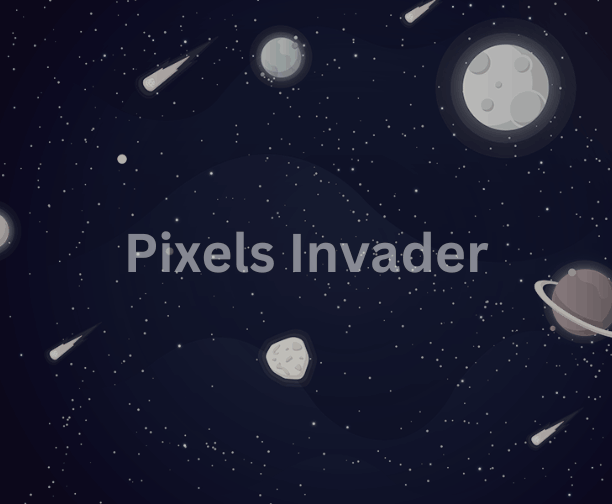
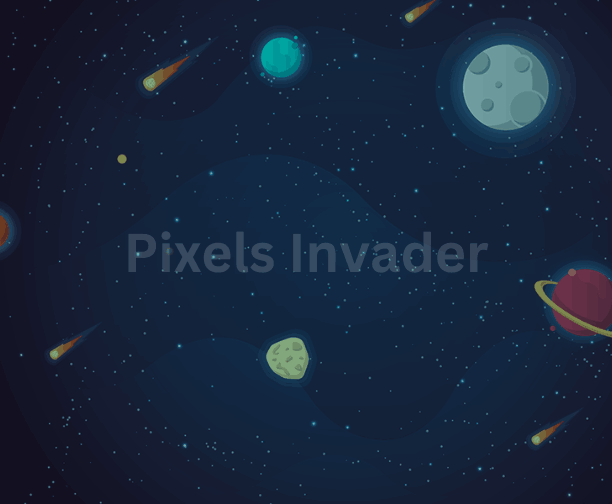
added multiple background option

diff --git a/src/components/game/space-invader.tsx b/src/components/game/space-invader.tsx
@@ -49,6 +49,7 @@ export const SpaceInvader: React.FC<SpaceInvadersProps> = ({ gameConst, setGameC
   const [enemyBullets, setEnemyBullets] = useState<{ x: number; y: number; width: number; height: number; isFired: boolean, initialX: number }[]>([]);
   const [enemyCanFire, setEnemyCanFire] = useState(true);
   const [debris, setDebris] = useState<Debris[]>([]);
+  const [background, setBackground] = useState('bg-game')
   const [playerPosition, setPlayerPosition] = useState<ElementPosition>({
     x: START_POSITION.x,
     y: START_POSITION.y,
@@ -231,11 +232,11 @@ export const SpaceInvader: React.FC<SpaceInvadersProps> = ({ gameConst, setGameC
       movePlayer();
       moveEnemiesAndFireBullets(ENEMY_BULLET_HEIGHT, ENEMY_BULLET_WIDTH, ENEMY_FIRE_INTERVAL, enemyCanFire, setEnemyCanFire, setPlayerBulletPosition, playerBulletsPosition, setPlayerPosition, setEnemies, playerPosition, setEnemyBullets, gameConst, gameLogic, setGameLogic, collide);
       movePlayerBullets(setPlayerBulletPosition, enemies, collide);
-      // moveEnemyBullets(setPlayerPosition, playerPosition, setEnemyBullets, gameConst, gameLogic, setGameLogic, collide);
+      moveEnemyBullets(setPlayerPosition, playerPosition, setEnemyBullets, gameConst, gameLogic, setGameLogic, collide);
 
       if (gameConst.Level > 2) {
         if (Math.random() < 1) {
-          // setDebris((currentDebris) => moveDebris(currentDebris));
+          setDebris((currentDebris) => moveDebris(currentDebris));
         }
       }
     }
@@ -331,6 +332,14 @@ export const SpaceInvader: React.FC<SpaceInvadersProps> = ({ gameConst, setGameC
               {gameConst.Health === 4 || gameConst.fireSpeed === 100 || gameConst.timer === 35 || gameConst.enemyFire === 0.005 ? null : <p className='text-slate-400 font-medium ml-2'>Buy some Powerups in Market</p>}
             </div>
           </div>
+          <div className='text-xl font-medium text-white my-4 flex items-center justify-center'>
+              <p className='mr-1'>Select Background:</p>
+              <div className='flex flex-row items-center justify-center'>
+                <img src='/background.png' onClick={() => setBackground('bg-game')} alt='background' width={60} height={60} className={`mx-1 ${background === 'bg-game'? 'border-4 border-white': ''}`} />
+                <img src='/background1.png' onClick={() => setBackground('bg-game1')} alt='background1' width={60} height={60} className={`mx-1 ${background === 'bg-game1'? 'border-4 border-white': ''}`} />
+                <img src='/background2.png' onClick={() => setBackground('bg-game2')} alt='background2' width={60} height={60} className={`mx-1 ${background === 'bg-game2'? 'border-4 border-white': ''}`} />
+              </div>
+            </div>
           <button onClick={handleStart} className="font-bold mt-3 text-2xl bg-green-500 text-white px-6 py-3 rounded-full hover:bg-green-600 transition duration-300">Start Again</button>
         </div> : !gameLogic.gameover && !gameConst.start ?
           <div className="w-[612px] h-[504px] mt-2 z-30 text-white text-center bg-black rounded">
@@ -346,11 +355,19 @@ export const SpaceInvader: React.FC<SpaceInvadersProps> = ({ gameConst, setGameC
                 {gameConst.Health === 4 || gameConst.fireSpeed === 100 || gameConst.timer === 35 || gameConst.enemyFire === 0.005 ? null : <p className='text-slate-400 font-medium ml-2'>Buy some Powerups in Market</p>}
               </div>
             </div>
+            <div className='text-xl font-medium text-white my-4 flex items-center justify-center'>
+              <p className='mr-1'>Select Background:</p>
+              <div className='flex flex-row items-center justify-center'>
+                <img src='/background.png' onClick={() => setBackground('bg-game')} alt='background' width={60} height={60} className={`mx-1 ${background === 'bg-game'? 'border-4 border-white': ''}`} />
+                <img src='/background1.png' onClick={() => setBackground('bg-game1')} alt='background1' width={60} height={60} className={`mx-1 ${background === 'bg-game1'? 'border-4 border-white': ''}`} />
+                <img src='/background2.png' onClick={() => setBackground('bg-game2')} alt='background2' width={60} height={60} className={`mx-1 ${background === 'bg-game2'? 'border-4 border-white': ''}`} />
+              </div>
+            </div>
             <p className='font-medium mt-2 mb-4'></p>
             <button onClick={handleFirstStart} className="font-bold mt-3 text-2xl bg-green-500 text-white px-6 py-3 rounded-full hover:bg-green-600 transition duration-300">Start</button>
           </div> :
           <div
-            className="w-[612px] h-[504px] mt-2 z-30 relative bg-game border-none rounded"
+            className={`w-[612px] h-[504px] mt-2 z-30 relative ${background} border-none rounded`}
             onKeyDown={(e) => pressed(e)}
             role="button"
             tabIndex={0}

diff --git a/tailwind.config.ts b/tailwind.config.ts
@@ -14,7 +14,9 @@ const config: Config = {
         'gradient-radial': 'radial-gradient(var(--tw-gradient-stops))',
         'gradient-conic':
           'conic-gradient(from 180deg at 50% 50%, var(--tw-gradient-stops))',
-          'game': "url('/background.png')"
+          'game': "url('/background.png')",
+          'game1': "url('/background1.png')",
+          'game2': "url('/background2.png')",
       },
     },
     screens: {
